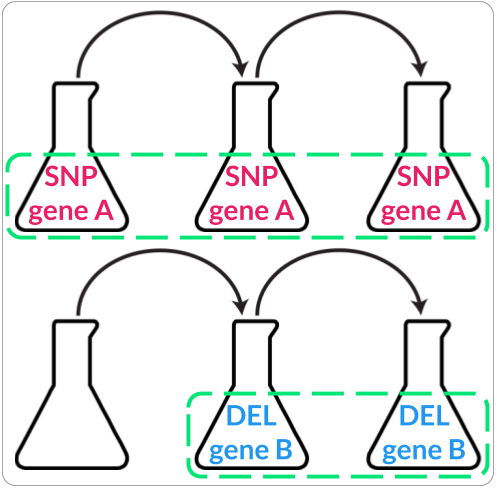
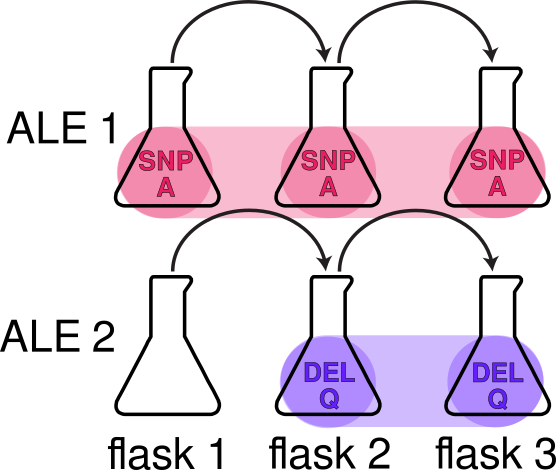
Updated buttons

diff --git a/stats/templates/stats.html b/stats/templates/stats.html
@@ -102,7 +102,7 @@
                         <div class="pull-left">
                             <i class="fa fa-filter fa-5x"></i>
                         </div>
-                        <div style="width: 75%; text-align: right" class="pull-right">
+                        <div style="width:75%; text-align: right" class="pull-right">
                             <div class="huge">Filter</div>
                         </div>
                     </div>
@@ -114,19 +114,34 @@
         img {
             display: block;
             margin: 0 auto;
+            max-width: 90%;
+            max-height: 90%;
+        }
+
+        #analysis_button {
+            border-radius: 25px;
+            border: 2px solid #999999;
+            padding: 10px;
         }
     </style>
     <div class="container">
-        <!-- Example row of columns -->
         <div class="row">
-            <div class="col-xs-6">
-                <h2 align="center">Enrichment Mutations</h2>
-                <a href="/enrichment?ale_experiment_id={{ ale_experiment_id }}"><img src="/static/enrich_mut_diag.png"></a>
-            </div>
-            <div class="col-xs-6">
-                <h2 align="center">Fixed Mutations</h2>
-                <a href="/fixation?ale_experiment_id={{ ale_experiment_id }}"><img src="/static/fixed_mut_diag.png"></a>
-            </div>
+            <a href="/enrichment?ale_experiment_id={{ ale_experiment_id }}">
+                <div class="col-md-6">
+                    <div id="analysis_button" class="panel">
+                        <div align="center" class="huge">Enrichment Mutations</div>
+                        <img src="/static/enrich_mut_diag.png">
+                    </div>
+                </div>
+            </a>
+            <a href="/fixation?ale_experiment_id={{ ale_experiment_id }}">
+                <div class="col-md-6">
+                    <div id="analysis_button" class="panel">
+                        <div align="center" class="huge">Fixed Mutations</div>
+                        <img src="/static/fixed_mut_diag.png">
+                    </div>
+                </div>
+            </a>
         </div>
     </div>
     <br><br><br>

diff --git a/compare/templates/compare.html b/compare/templates/compare.html
@@ -67,21 +67,34 @@
             img {
                 display: block;
                 margin: 0 auto;
+                max-width: 90%;
+                max-height: 90%;
+            }
+
+            #analysis_button {
+                border-radius: 25px;
+                border: 2px solid #999999;
+                padding: 10px;
             }
         </style>
         <div class="container">
-            <!-- Example row of columns -->
             <div class="row">
-                <div class="col-xs-6">
-                    <h2 align="center">Enrichment Mutations</h2>
-                    <a href="/compare/enrichment?ale_experiment_id={{ ale_experiment_id }}"><img
-                            src="/static/enrich_mut_diag.png"></a>
-                </div>
-                <div class="col-xs-6">
-                    <h2 align="center">Fixed Mutations</h2>
-                    <a href="/compare/fixation?ale_experiment_id={{ ale_experiment_id }}"><img
-                            src="/static/fixed_mut_diag.png"></a>
-                </div>
+                <a href="/compare/enrichment?ale_experiment_id={{ ale_experiment_id }}">
+                    <div class="col-md-6">
+                        <div id="analysis_button" class="panel">
+                            <div align="center" class="huge">Enrichment Mutations</div>
+                            <img src="/static/enrich_mut_diag.png">
+                        </div>
+                    </div>
+                </a>
+                <a href="/compare/fixation?ale_experiment_id={{ ale_experiment_id }}">
+                    <div class="col-md-6">
+                        <div id="analysis_button" class="panel">
+                            <div align="center" class="huge">Fixed Mutations</div>
+                            <img src="/static/fixed_mut_diag.png">
+                        </div>
+                    </div>
+                </a>
             </div>
         </div>
         <br><br><br>
